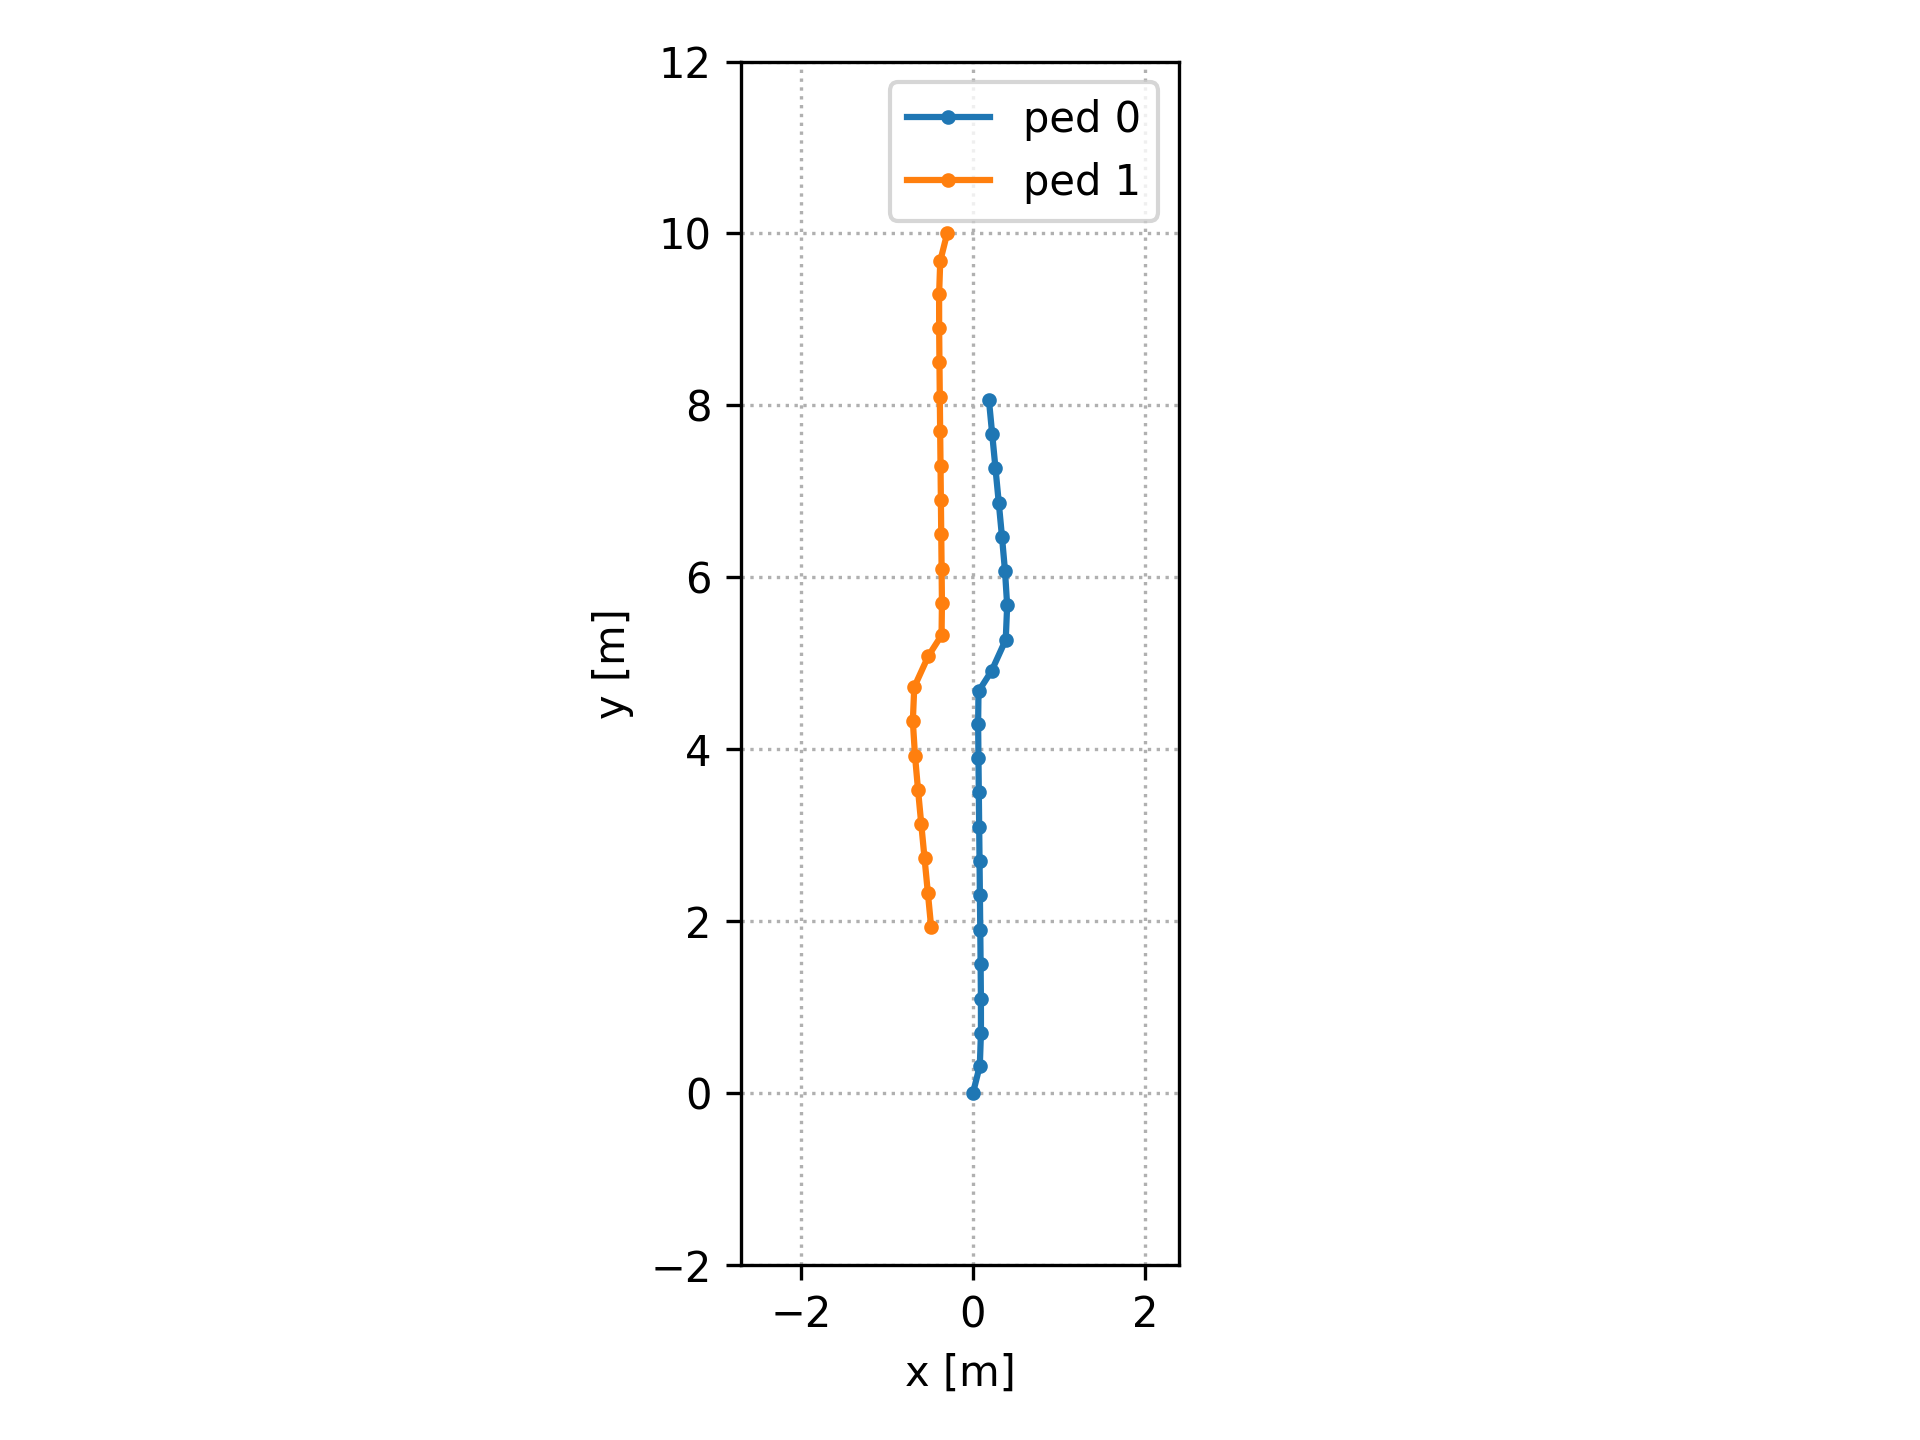
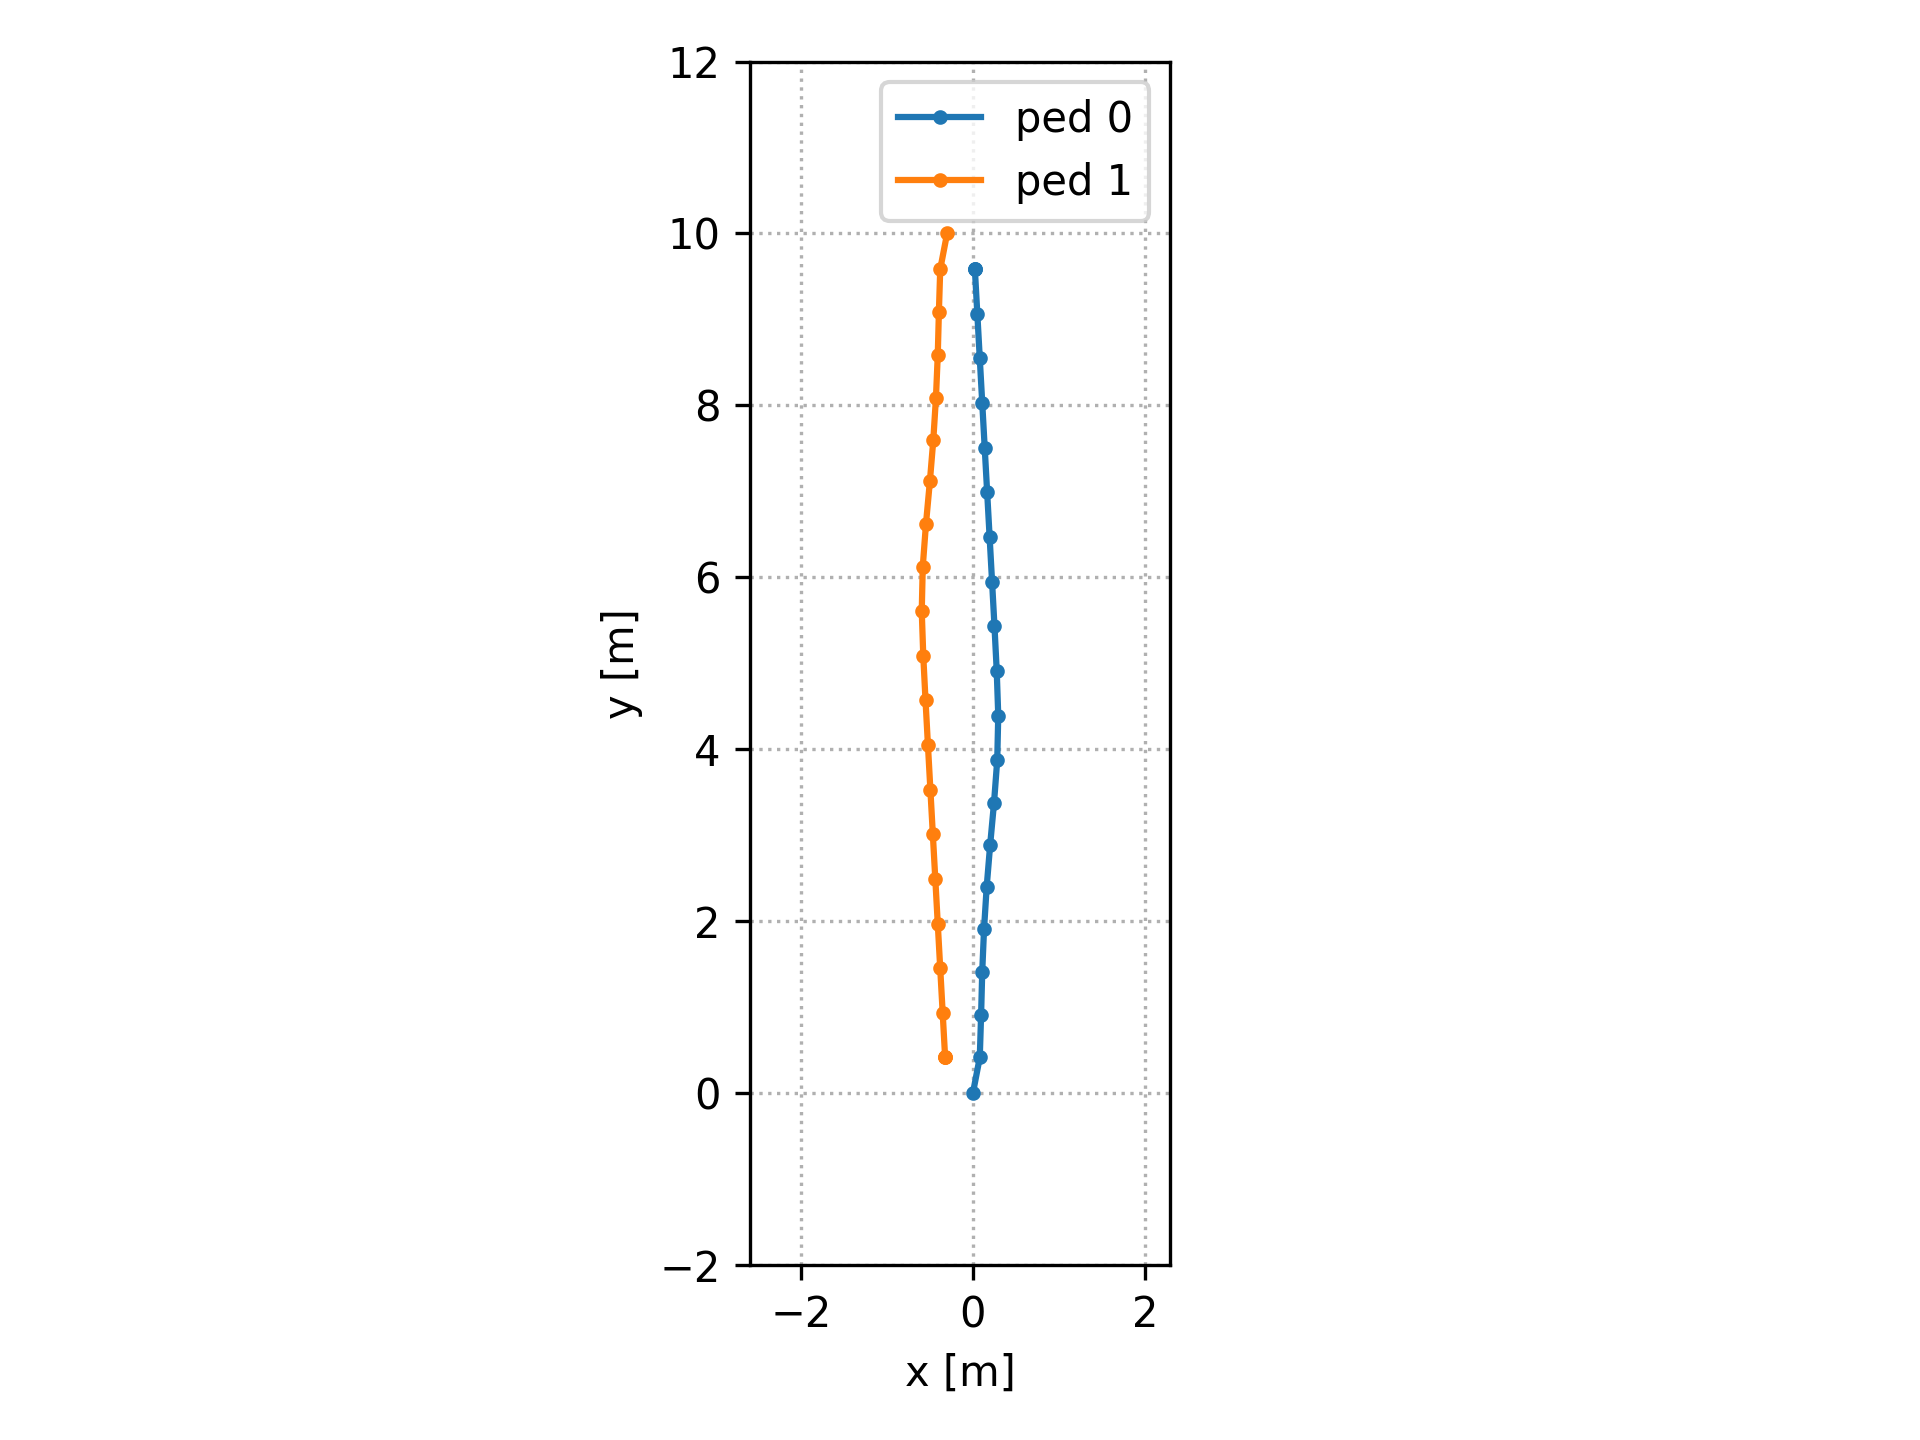
:memo: Update example and images

diff --git a/examples/example.py b/examples/example.py
@@ -7,7 +7,7 @@ if __name__ == "__main__":
     initial_state = np.array(
         [
             [0.0, 0.0, 0.5, 0.5, 10.0, 10.0],
-            [0.0, 1.0, 0.5, 0.5, 10.0, 10.0],
+            [0.0, 0.5, 0.5, 0.5, 10.0, 10.0],
             [10.0, 0.3, -0.5, 0.5, 0.0, 10.0],
             [11.0, 0.3, -0.5, 0.5, 0.0, 10.0],
             [12.0, 0.3, -0.5, 0.5, 0.0, 10.0],
@@ -16,19 +16,9 @@ if __name__ == "__main__":
     # group informoation is represented as listes of indices of the members
     groups = [[0, 1], [2, 3, 4]]
     # initiate the simulator,
-    s = psf.Simulator(initial_state, groups=groups, obstacles=None, config_file="config.toml")
+    s = psf.Simulator(initial_state, groups=groups, obstacles=None)
     # update 80 steps
     s.step(80)
-    states = s.get_states()
 
-    # plot
-    with psf.show.canvas("images/exmaple.png") as ax:
-        ax.set_xlabel("x [m]")
-        ax.set_ylabel("y [m]")
-
-        for i, group in enumerate(groups):
-            for ped in group:
-                x = states[:, ped, 0]
-                y = states[:, ped, 1]
-                ax.plot(x, y, "-o", label="ped {}".format(ped), markersize=2.5)
-        ax.legend()
+    with psf.plot.SceneVisualizer(s, "images/exmaple") as sv:
+        sv.animate()
